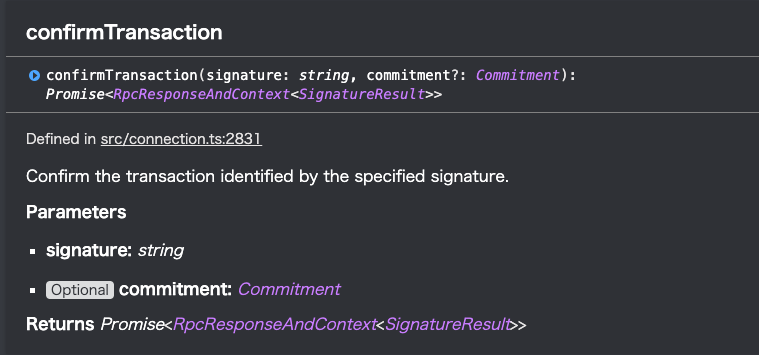
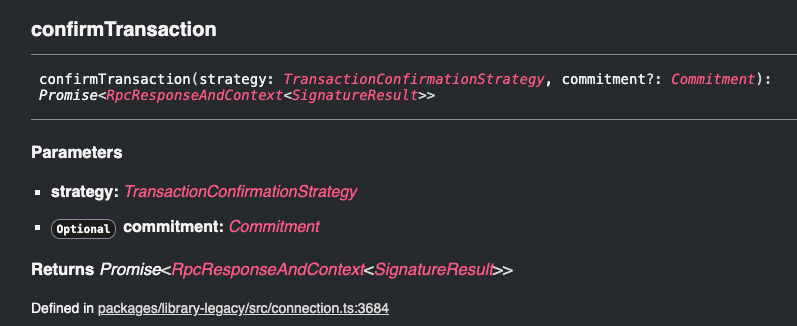
feat: update airdrop

diff --git a/docs/Solana-Wallet/ja/section-3/lesson-1_エアドロップ機能を作ろう.md b/docs/Solana-Wallet/ja/section-3/lesson-1_エアドロップ機能を作ろう.md
@@ -10,12 +10,39 @@
 
 このセクションを完了すると、`Airdrop`ボタンを押下したときに、自動的に残高が増えるようになります。次のセクションでは資金の送金機能をつくるため、ここで自分のアカウントの資金を増やしておきましょう。
 
+### 🧱 コンポーネントを作成する
+
+エアドロップ機能を記述するファイルを作成しましょう。`components`ディレクトリの中に、`Airdrop/index.js`ファイルを作成します。
+
+```diff
+ components/
++├── Airdrop/
++│   └── index.js
+ ├── GenerateWallet/
+ │   └── index.js
+ ├── GetBalance/
+ │   └── index.js
+ ├── ImportWallet/
+ │   └── index.js
+ └── Head.js
+```
+
+作成した`index.js`に、以下のコードを記述しましょう。これまでに作成したコンポーネント同様`Home`コンポーネントが保持しているデータのうち、実装に必要なデータを引数として受け取るようにします。
+
+```javascript
+import { Connection, LAMPORTS_PER_SOL } from '@solana/web3.js';
+
+export default function Airdrop({ account, network, refreshBalance }) {
+  return ();
+}
+```
+
 ### 🛫 導入
 
 前のセクションで、Solanaのネットワークの1つへの接続をインスタンス化する方法と、アカウントの公開鍵プロパティを変数に代入する方法を学びました。同じコードをここで適用して、 `handleAirdrop`関数をつくっていきましょう。
 
 ```javascript
-const connection = new Connection(clusterApiUrl(NETWORK), "confirmed");
+const connection = new Connection(network, 'confirmed');
 
 console.log(connection);
 // > Connection {_commitment: 'confirmed', _confirmTransactionInitialTimeout: undefined, _rpcEndpoint: 'https://api.devnet.solana.com', _rpcWsEndpoint: 'wss://api.devnet.solana.com/', _rpcClient: ClientBrowser, …}
@@ -28,7 +55,10 @@ console.log(connection);
 ![](/public/images/Solana-Wallet/section-3/3_1_1.png)
 
 ```javascript
-const confirmation = await connection.requestAirdrop(account.publicKey, LAMPORTS_PER_SOL);
+const signature = await connection.requestAirdrop(
+  account.publicKey;
+  1 * LAMPORTS_PER_SOL,
+);
 ```
 
 上記のように`requestAirdrop`メソッドを呼び出すと、`1 SOL`をエアドロップすることができます。 `LAMPORTS_PER_SOL = 1SOL`になるからです。
@@ -39,14 +69,35 @@ const confirmation = await connection.requestAirdrop(account.publicKey, LAMPORTS
 
 データベース型の操作と同様に、ブロックチェーンの状態変更は非同期です。実際、ほとんどのブロックチェーン・プロトコルが分散型であることを考えると、一部の更新には時間がかかることがあります。
 
-このことを念頭に置いて、残高を更新する前にエアドロップが確認されるのを待つ必要があります。もう一度ドキュメントを検索すると、`Connection`クラスに`confirmTransaction`メソッドがあり、確認署名とコミットメントを受け取り、トランザクションがネットワークによって確認されると解決するプロミスを返していることがわかります。
+このことを念頭に置いて、残高を更新する前にエアドロップが確認されるのを待つ必要があります。もう一度ドキュメントを検索すると、`Connection`クラスに`confirmTransaction`メソッドがあり、2つの引数を受け取り、トランザクションがネットワークによって確認されると解決するプロミスを返していることがわかります。
 
-![](/public/images/Solana-Wallet/section-3/3_1_2.png)
+![](./public/images/Solana-Wallet/section-3/3_1_2.png)
 
-ドキュメント通りに`confirmTransaction`メソッドを呼び出しましょう。
+[`TransactionConfirmationStrategy`](https://solana-labs.github.io/solana-web3.js/types/TransactionConfirmationStrategy.html)については、定義に「すべてのトランザクション確認戦略を表す型」とあります。Solanaでは、トランザクションを確認するための方法が複数用意されており、これらをひとまとめに表す型名としてTransactionConfirmationStrategyが用意されています。リンク先を確認すると、トランザクションが有効である最後のブロックの高さを用いて確認する方法と、Nonceを用いて確認する方法が用意されていることがわかります。今回は、一般的なアプローチとしてブロックの高さを用いて確認する方法を選択します。
+
+では、最新のブロックについてのデータを取得するにはどうすればよいでしょうか。再度ドキュメントを検索すると、`Connection`クラスには、`getLatestBlockhash`メソッドがあり、最新のブロックのハッシュと、そのブロックの高さを返すことがわかります。
+
+![](./public/images/Solana-Wallet/section-3/3_1_3.png)
+
+それでは、ドキュメントを参考に`confirmTransaction`メソッドを呼び出しましょう。トランザクションの成功を確認するためには、`confirmTransaction`メソッドが返すプロミスの`value`プロパティを確認する必要があります。`value`プロパティは、`signature`プロパティと`err`プロパティを持つオブジェクトを返します。`err`プロパティが`null`であれば、トランザクションは成功しています。
 
 ```javascript
-await connection.confirmTransaction(confirmation, "confirmed");
+const latestBlockHash = await connection.getLatestBlockhash();
+await connection
+  .confirmTransaction(
+    {
+      signature,
+      blockhash: latestBlockHash.blockhash,
+      lastValidBlockHeight: latestBlockHash.lastValidBlockHeight,
+    },
+    'confirmed',
+  )
+  .then((response) => {
+    const signatureResult = response.value;
+    if (signatureResult.err) {
+      console.error('Transaction failed: ', signatureResult.err);
+    }
+  });
 ```
 
 ここで確認に変数を代入する必要がないことに注意してください。ウォレットは、ネットワークによってトランザクションが確認されたことを知ると、refresh残高を呼び出してアカウントの残高を更新することができます。
@@ -55,18 +106,41 @@ await connection.confirmTransaction(confirmation, "confirmed");
 await refreshBalance();
 ```
 
-最後に、 `Airdrop`ボタンをレンダリングしましょう!
+最後に、 `Airdrop`ボタンを実装しましょう!
+
+```javascript
+return (
+  <button
+    className="p-2 my-6 text-white bg-indigo-500 focus:ring focus:ring-indigo-300 rounded-lg cursor-pointer"
+    onClick={handleAirdrop}
+  >
+    Airdrop
+  </button>
+);
+```
+
+それでは、`Airdrop`コンポーネントを`Home`コンポーネントに組み込んで`Airdrop`ボタンを表示しましょう。
+
+インポート文を追加します。
+
+```javascript
+import Airdrop from '../components/Airdrop';
+```
+
+`Airdrop`コンポーネントを呼び出すコードを追加して、ボタンをレンダリングします。
 
 ```javascript
 <div>
-  <h2 className="p-2 border-dotted border-l-4 border-l-indigo-400">STEP4: エアドロップ機能を実装する</h2>
+  <h2 className="p-2 border-dotted border-l-4 border-l-indigo-400">
+    STEP4: エアドロップ機能を実装する
+  </h2>
+  {/* 下記を追加 */}
   {account && (
-    <button
-      className="p-2 my-6 text-white bg-indigo-500 focus:ring focus:ring-indigo-300 rounded-lg cursor-pointer"
-      onClick={handleAirdrop}
-    >
-      Airdrop
-    </button>
+    <Airdrop
+      account={account}
+      network={network}
+      refreshBalance={refreshBalance}
+    />
   )}
 </div>
 ```
@@ -79,39 +153,107 @@ await refreshBalance();
 
 ### 📝 このセクションで追加したコード
 
-```diff
-+  const handleAirdrop = async () => {
-+    try {
-+      const connection = new Connection(clusterApiUrl(NETWORK), "confirmed");
-+      const publicKey = account.publicKey;
-+
-+      const confirmation = await connection.requestAirdrop(publicKey, LAMPORTS_PER_SOL);
-+      await connection.confirmTransaction(confirmation, "confirmed");
-+      await refreshBalance();
-+    } catch (error) {
-+      console.log('error', error);
-+    }
-+  };
-+
-   return (
-     <div className="p-10">
-       <h1 className="text-5xl font-extrabold tracking-tight text-gray-900">
-@@ -129,6 +142,14 @@ export default function Home() {
+- `components/Airdrop/index.js`
 
-       <div>
-         <h2 className="p-2 border-dotted border-l-4 border-l-indigo-400">STEP4: エアドロップ機能を実装する</h2>
-+        {account && (
-+          <button
-+            className="p-2 my-6 text-white bg-indigo-500 focus:ring focus:ring-indigo-300 rounded-lg cursor-pointer"
-+            onClick={handleAirdrop}
-+          >
-+            Airdrop
-+          </button>
-+        )}
-       </div>
+```javascript
+import { Connection, LAMPORTS_PER_SOL } from '@solana/web3.js';
 
-       <hr className="my-6" />
+export default function Airdrop({ account, network, refreshBalance }) {
+  const handleAirdrop = async () => {
+    try {
+      const connection = new Connection(network, 'confirmed');
+      const publicKey = account.publicKey;
+      const signature = await connection.requestAirdrop(
+        publicKey,
+        1 * LAMPORTS_PER_SOL,
+      );
+
+      const latestBlockHash = await connection.getLatestBlockhash();
+      await connection
+        .confirmTransaction(
+          {
+            signature,
+            blockhash: latestBlockHash.blockhash,
+            lastValidBlockHeight: latestBlockHash.lastValidBlockHeight,
+          },
+          'confirmed',
+        )
+        .then((response) => {
+          const signatureResult = response.value;
+          if (signatureResult.err) {
+            console.error('Transaction failed: ', signatureResult.err);
+          }
+        });
+
+      // アカウントの残高を更新します。
+      await refreshBalance();
+    } catch (error) {
+      console.error(error);
+    }
+  };
+  return (
+    <button
+      className="p-2 my-6 text-white bg-indigo-500 focus:ring focus:ring-indigo-300 rounded-lg cursor-pointer"
+      onClick={handleAirdrop}
+    >
+      Airdrop
+    </button>
+  );
+}
 ```
+
+- `pages/index.js`
+
+```diff
+import { clusterApiUrl, Connection, LAMPORTS_PER_SOL } from '@solana/web3.js';
+import { useEffect, useState } from 'react'; // useEffectの追加
+
++import Airdrop from '../components/Airdrop';
+import GenerateWallet from '../components/GenerateWallet/';
+import GetBalance from '../components/GetBalance';
+import HeadComponent from '../components/Head';
+import ImportWallet from '../components/ImportWallet';
+
+export default function Home() {
+
+  // ===== 省略 =====
+
+  return (
+    <div>
+
+      // ===== 省略 =====
+
+        <div>
+          <h2 className="p-2 border-dotted border-l-4 border-l-indigo-400">
+            STEP3: 残高を取得する
+          </h2>
+          {account && <GetBalance refreshBalance={refreshBalance} />}
+        </div>
+        <hr className="my-6" />
+        <div>
+          <h2 className="p-2 border-dotted border-l-4 border-l-indigo-400">
+            STEP4: エアドロップ機能を実装する
+          </h2>
++          {account && (
++            <Airdrop
++              account={account}
++              network={network}
++              refreshBalance={refreshBalance}
++            />
++          )}
+        </div>
+        <hr className="my-6" />
+        <div>
+          <h2 className="p-2 border-dotted border-l-4 border-l-indigo-400">
+            STEP5: 送金機能を実装する
+          </h2>
+        </div>
+      </div>
+    </div>
+  );
+}
+```
+
 ### 🙋♂ 質問する
 
 ここまでの作業で何かわからないことがある場合は、Discordの`#solana`で質問をしてください。
